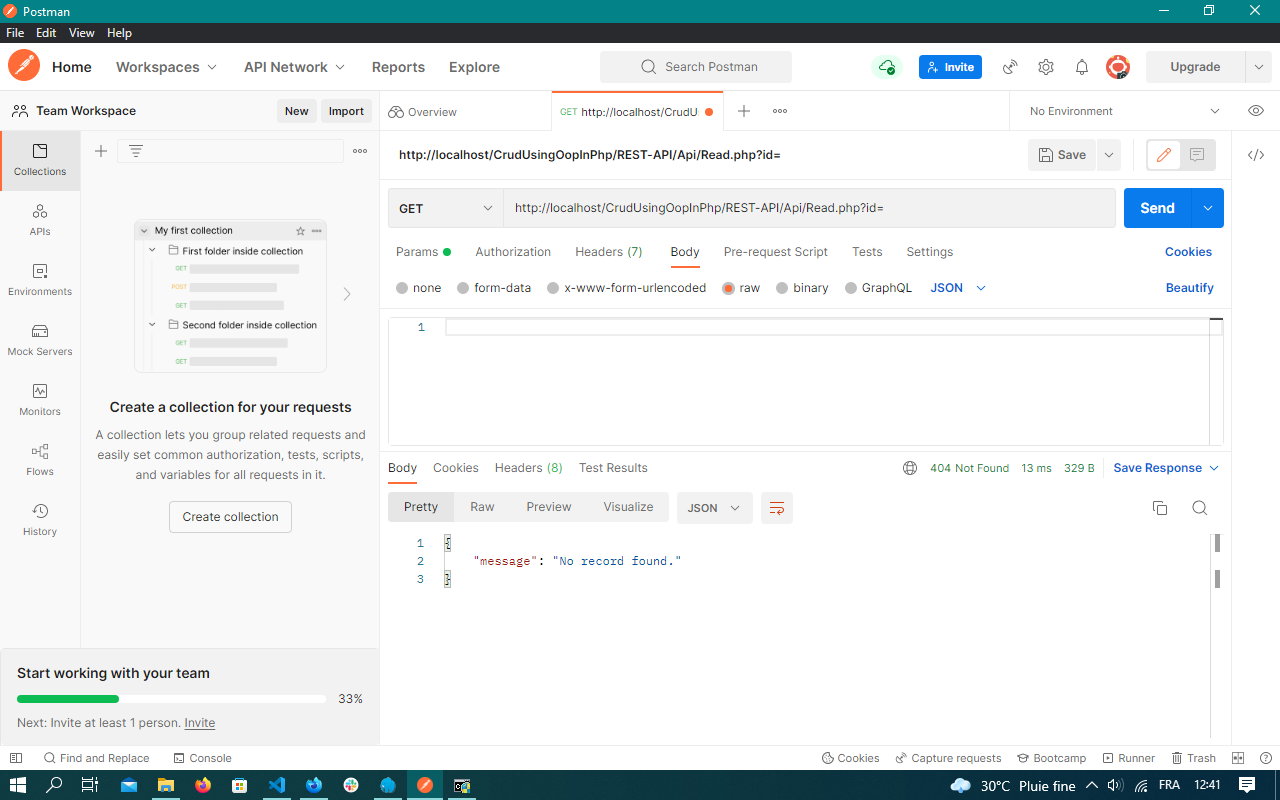
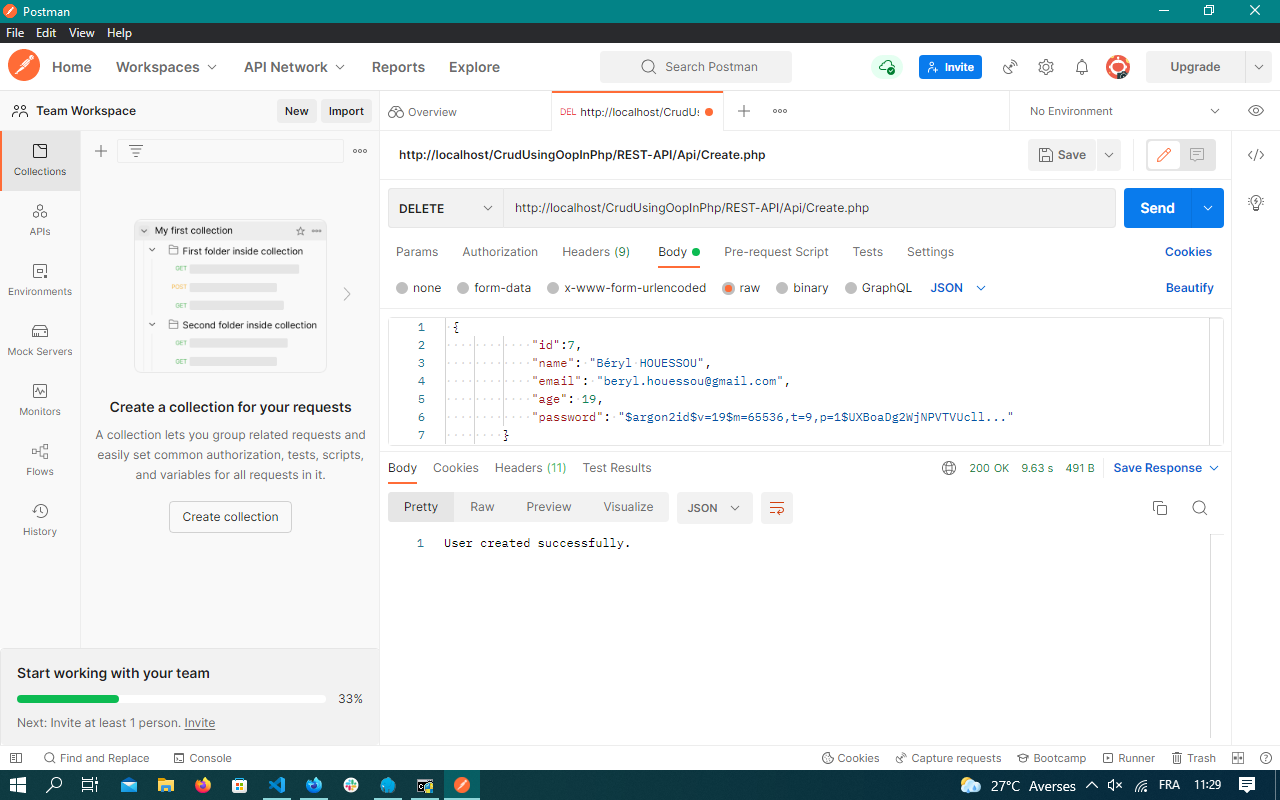
Final commit for update User

diff --git a/README.md b/README.md
@@ -7,19 +7,29 @@
 
 ##  Manuel d'utilisation : 
   
-- Besoin de télécharger ou de cloner le projet 
-- Créer une base de données nommée **phpapidb** 
-- Créez une table nommée **\`users\`** 
-- Les requêtes de table sont données ci-dessous 
-- Nécessité de mettre le nom d'utilisateur et le mot de passe mySQL dans le fichier `Configuration/database.php` 
-- Et vous avez terminé ! 
-- Allez simplement dans votre navigateur et écrivez localhost ! 
-- Et oui, le plus important -- Vous devez installer Apache, PHP et MySQL sur votre ordinateur :)(Ps: J'utilise un environnement de développement :Laragon-wamp) 
+[ ] Besoin de télécharger ou de cloner le projet 
+[ ] Créer une base de données nommée **phpapidb** 
+[ ] Créez une table nommée **\`users\`** 
+[ ] Les requêtes de table sont données ci-dessous 
+[ ] Nécessité de mettre le nom d'utilisateur et le mot de passe mySQL dans le fichier `Configuration/database.php` 
+[ ] Et vous avez terminé ! 
+[ ] Allez simplement dans votre navigateur et écrivez localhost ! 
+[ ] Et oui, le plus important -- Vous devez installer Apache, PHP et MySQL sur votre ordinateur :)(Ps: J'utilise un environnement de développement :Laragon-wamp) 
 
 
 ##  Prérequis : 
 
 - Connaissances en POO comme classe, objet, méthode, namespace, interface 
+
+## La base de Donnée
+use phpapidb;
+
+SHOW tables;
++--------------------+
+| phpapidb           |
++--------------------+
+| users              |     
++--------------------+
 
 ##  `users` Requêtes de table 
 - CREATE TABLE IF NOT EXISTS `users` (
@@ -34,3 +44,24 @@
 
 ##  Hiérarchie des dossiers : 
 ![Hiérarchie des dossiers](https://github.com/beryl452/CrudUsingOopInPhp/blob/main/REST-API/Screenshot/HierarchieDesDossiers.PNG)
+
+## Test de l'API à l'aide de POSTMAN
+
+Ouvrons Postman et utilisons les URLs 👇🏾 cliquez sur le bouton Send pour vérifier la sortie.
+-[ ] Create.php (http://localhost/CrudUsingOopInPhp/REST-API/Api/Create.php)
+![Créer un enregistrement d'utilisateur](https://github.com/beryl452/CrudUsingOopInPhp/blob/main/
+REST-API/Screenshot/CreateUser.PNG)
+
+-[ ] ReadAll.php (http://localhost/CrudUsingOopInPhp/REST-API/Api/ReadAll.php)
+![Lire les enregistrement d'utilisateur](https://github.com/beryl452/CrudUsingOopInPhp/blob/main/REST-API/Screenshot/ReadAllUsers.PNG)
+
+-[ ] Read.php (http://localhost/CrudUsingOopInPhp/REST-API/Api/Read.php)
+![Lire un enregistrement d'utilisateur](https://github.com/beryl452/CrudUsingOopInPhp/blob/main/REST-API/
+Screenshot/ReadSingleUser.PNG)
+
+-[ ] Update.php (http://localhost/CrudUsingOopInPhp/REST-API/Api/Update.php)
+![Mettre à jour un enregistrement d'utilisateur](https://github.com/beryl452/CrudUsingOopInPhp/blob/main/REST-API/Screenshot/UpdateUser.PNG)
+
+-[ ] Delete.php (http://localhost/CrudUsingOopInPhp/REST-API/Api/Delete.php)
+![Supprimer l'enregistrement d'un utilisateur](https://github.com/beryl452/CrudUsingOopInPhp/blob/main/
+REST-API/Screenshot/DeleteUser.PNG)
